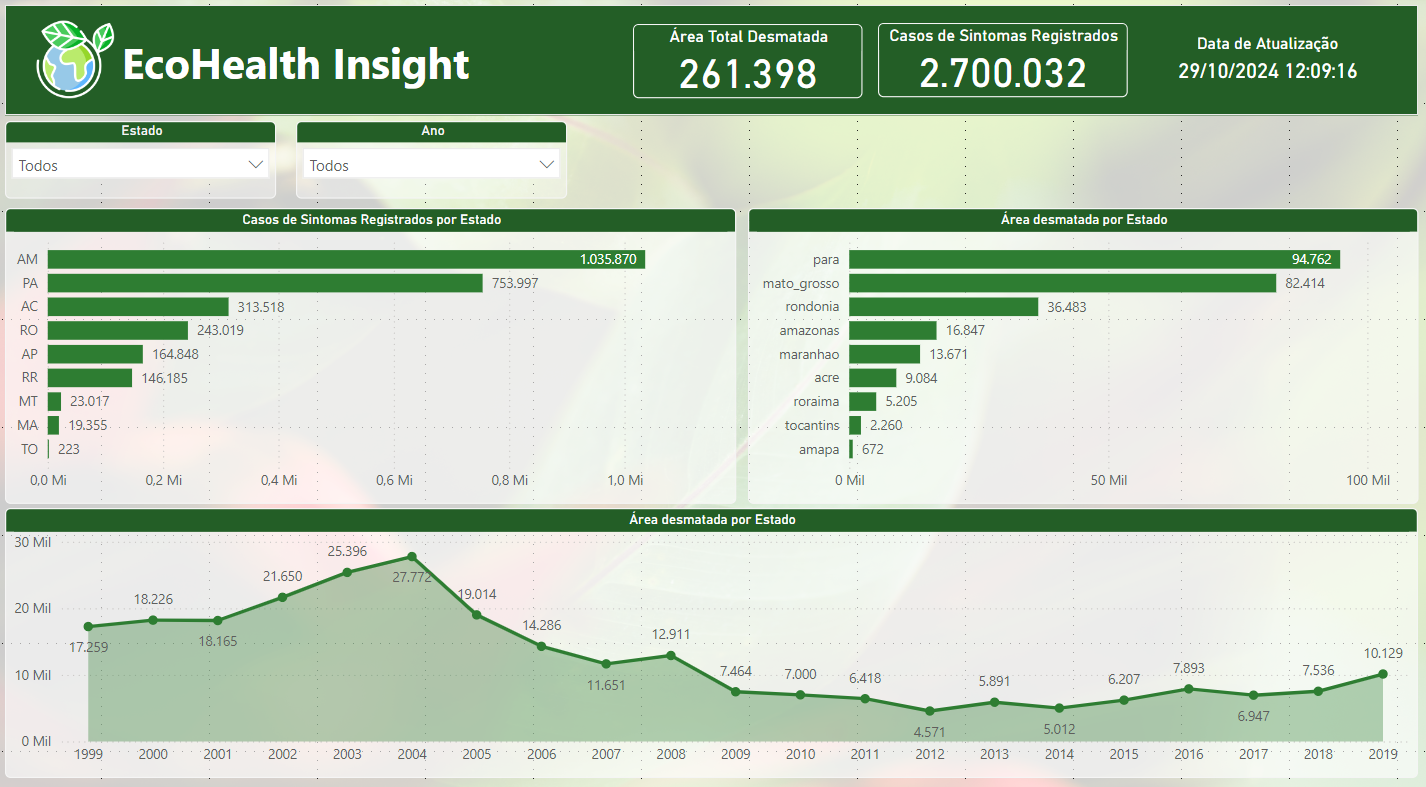
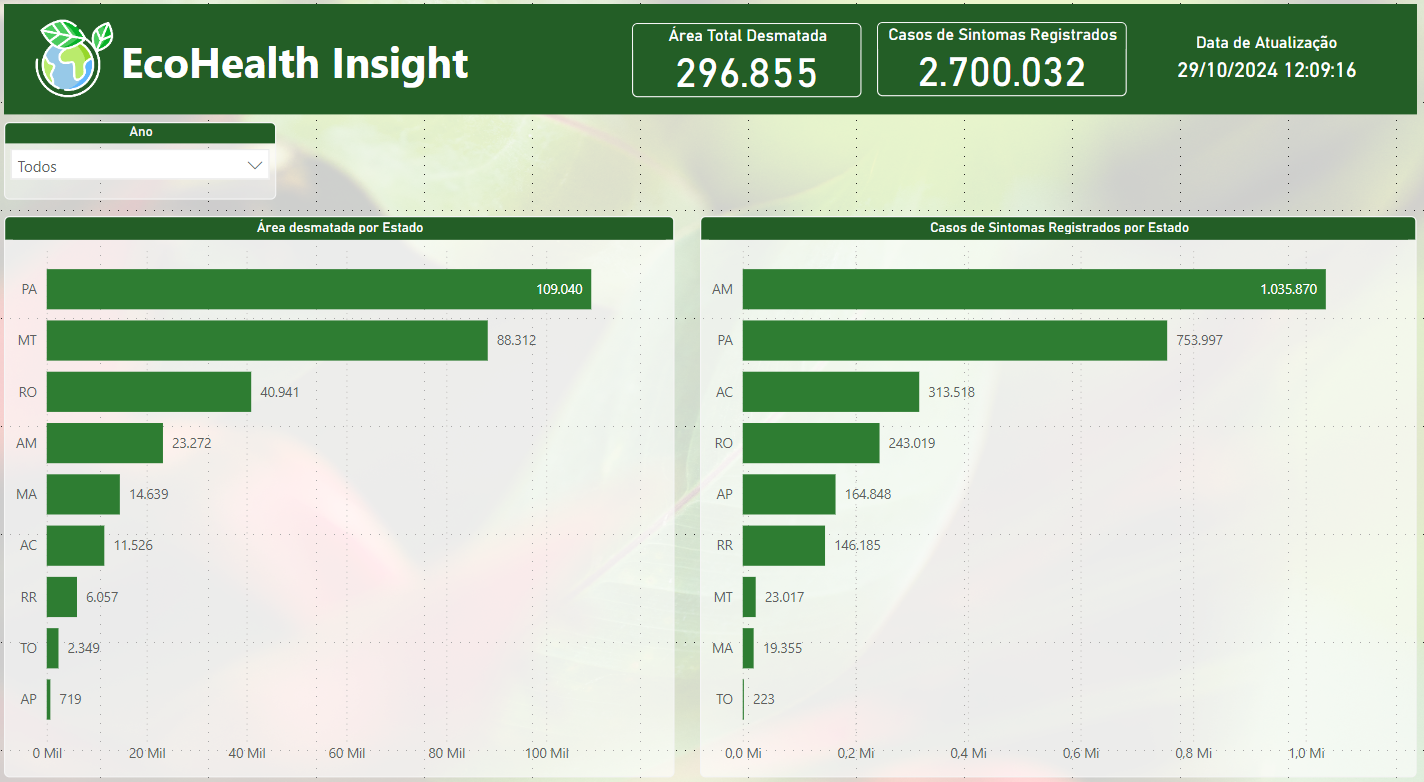
:sparkles: feat: Evoluação de Desmatamento e Malária

diff --git a/readme.md b/readme.md
@@ -45,6 +45,9 @@ O Dashboard inclui as seguintes métricas e KPIs:
 Visão Geral:
 ![alt text](public/img/visao-geral.png)
 
+Evolução de Desmatamento e Malário:
+![alt text](public/img/evolucao-desmatamento-malaria.png)
+
 # 🚀 Como Usar
 
 1. Clone o repositório:
